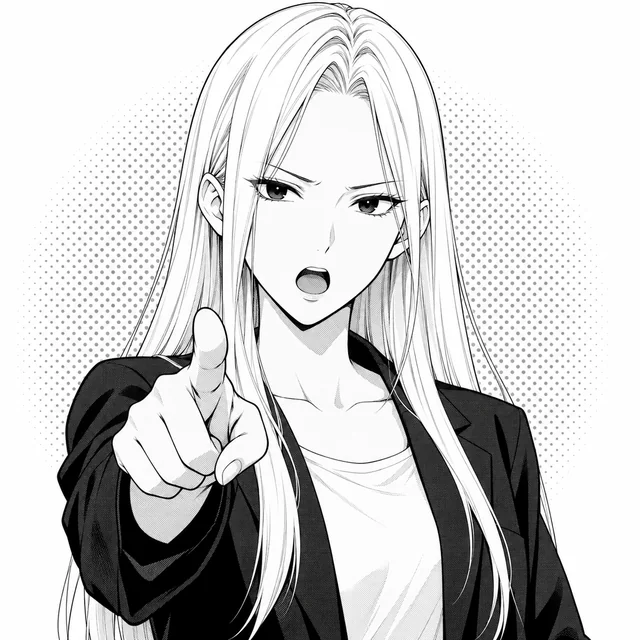
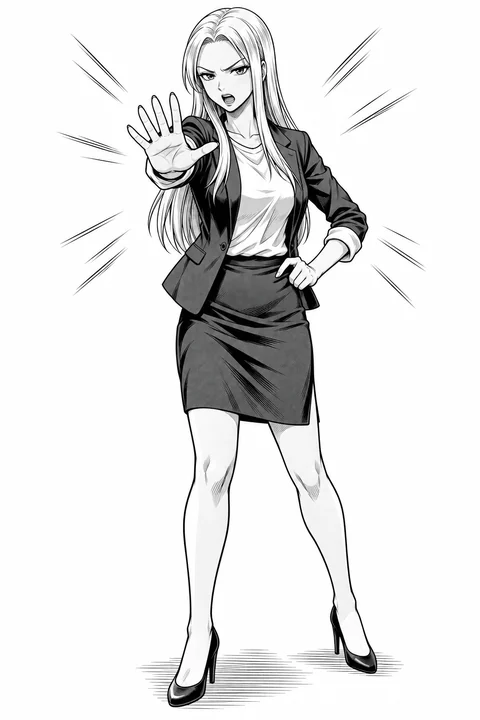
登場人物のサムネを作者が描いた全身の絵に差し替える
テツ・レナ・ショータ・豪徳寺の4人。全身が切れないよう、カードの絵を正方形から
縦長（2:3）に変え、白地のまま収める形にした。元の画像はシリーズのフォルダに保存。

diff --git a/index.html b/index.html
@@ -65,7 +65,7 @@
         <h2 class="section-title">登場人物</h2>
         <ul class="charas">
           <li class="chara">
-            <img src="assets/chara/tetsu.webp" width="640" height="640" loading="lazy" alt="源田テツ。作業用ベストの男が、目を＄にしてニヤリと笑う">
+            <img src="assets/chara/tetsu.webp" width="480" height="720" loading="lazy" alt="源田テツ。作業用ベストの男が、分厚い本を抱えてこちらを指さし、にやりと笑う">
             <div class="chara-body">
               <p class="chara-role">主役・係員</p>
               <h3 class="chara-name"><ruby>源田<rt>げんだ</rt></ruby>テツ<small>38歳</small></h3>
@@ -74,7 +74,7 @@
             </div>
           </li>
           <li class="chara">
-            <img src="assets/chara/rena.webp" width="640" height="640" loading="lazy" alt="赤嶺レナ。金髪ロングの女性が、こちらを指さしてあきれ顔">
+            <img src="assets/chara/rena.webp" width="480" height="720" loading="lazy" alt="赤嶺レナ。金髪ロングの女性が、手のひらを突き出して止めに入る">
             <div class="chara-body">
               <p class="chara-role">係のリーダー・テツの上司</p>
               <h3 class="chara-name"><ruby>赤嶺<rt>あかみね</rt></ruby>レナ</h3>
@@ -83,7 +83,7 @@
             </div>
           </li>
           <li class="chara">
-            <img src="assets/chara/shota.webp" width="640" height="640" loading="lazy" alt="鈴木ショータ。白Tシャツの高校生が、無表情でスマホの電卓を見せる">
+            <img src="assets/chara/shota.webp" width="480" height="720" loading="lazy" alt="鈴木ショータ。白Tシャツの高校生が、スマホの電卓を指さして見せる">
             <div class="chara-body">
               <p class="chara-role">高校生バイト</p>
               <h3 class="chara-name"><ruby>鈴木<rt>すずき</rt></ruby>ショータ<small>16歳</small></h3>
@@ -92,7 +92,7 @@
             </div>
           </li>
           <li class="chara">
-            <img src="assets/chara/gotokuji.webp" width="640" height="640" loading="lazy" alt="豪徳寺剛。眼鏡を白く光らせたスーツの男性が、巨大な決裁の判子を抱えて静かに笑う">
+            <img src="assets/chara/gotokuji.webp" width="480" height="720" loading="lazy" alt="豪徳寺剛。眼鏡のスーツの男性が、巨大な決裁の判子を両手で構えて静かに笑う">
             <div class="chara-body">
               <p class="chara-role">課長</p>
               <h3 class="chara-name"><ruby>豪徳寺<rt>ごうとくじ</rt></ruby><ruby>剛<rt>ごう</rt></ruby><small>46歳</small></h3>

diff --git a/assets/style.css b/assets/style.css
@@ -82,8 +82,8 @@ body { margin: 0; background: var(--bg); color: var(--fg); line-height: 1.7; }
 
 /* 登場人物 */
 .charas { list-style: none; margin: 0; padding: 0; display: grid; grid-template-columns: repeat(2, 1fr); gap: 16px; }
-.chara { display: grid; grid-template-columns: 150px 1fr; gap: 16px; align-items: start; background: var(--card-bg); border: 1px solid var(--line); border-radius: 14px; padding: 16px; }
-.chara img { width: 100%; height: auto; aspect-ratio: 1; object-fit: cover; border-radius: 8px; border: 2px solid var(--fg); background: #fff; }
+.chara { display: grid; grid-template-columns: 170px 1fr; gap: 16px; align-items: start; background: var(--card-bg); border: 1px solid var(--line); border-radius: 14px; padding: 16px; }
+.chara img { width: 100%; height: auto; aspect-ratio: 2 / 3; object-fit: contain; border-radius: 8px; border: 2px solid var(--fg); background: #fff; }
 .chara-role { margin: 0; font-size: 12px; font-weight: 700; color: var(--primary); letter-spacing: .06em; }
 .chara-name { margin: 2px 0 8px; font-size: 22px; line-height: 1.5; }
 .chara-name rt { font-size: 10px; font-weight: 400; color: var(--fg-sub); }
@@ -134,7 +134,7 @@ a:focus-visible { outline: 2px solid var(--accent); outline-offset: 3px; }
 }
 @media (max-width: 560px) {
   .section { padding: 36px 0; }
-  .chara { grid-template-columns: 96px 1fr; gap: 12px; padding: 12px; }
+  .chara { grid-template-columns: 118px 1fr; gap: 12px; padding: 12px; }
   .chara-name { font-size: 19px; }
   .episode { grid-template-columns: 110px 1fr; gap: 14px; padding: 12px; }
   .ep-title { font-size: 18px; }
